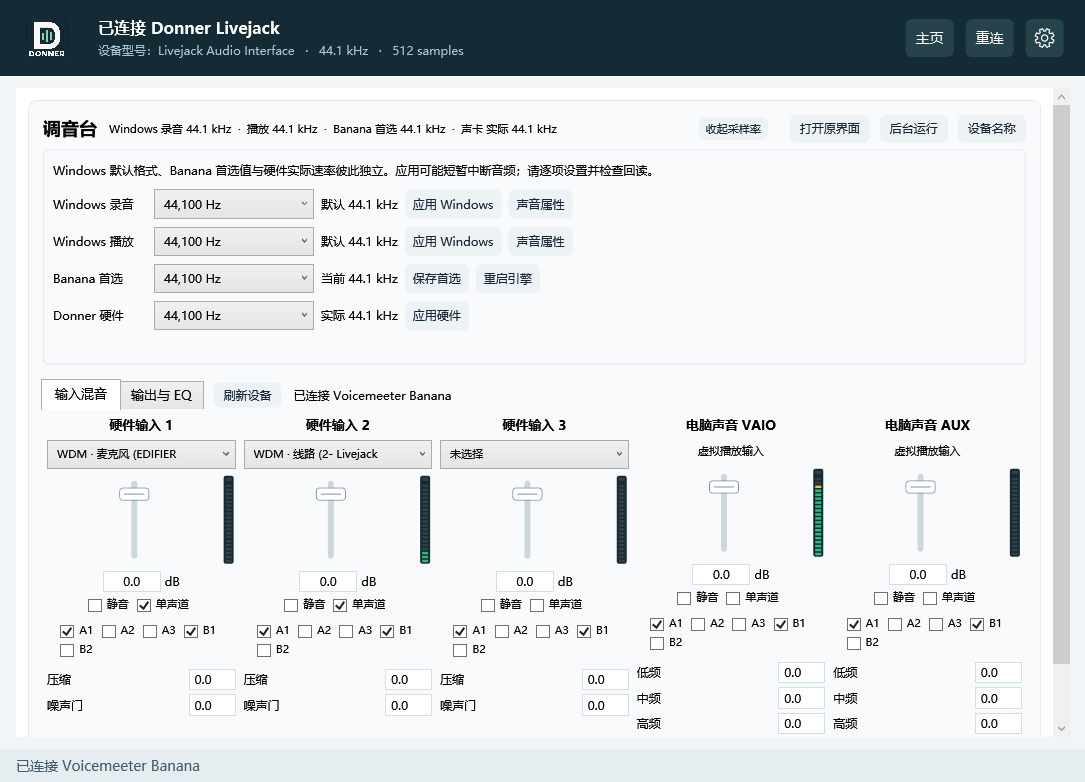
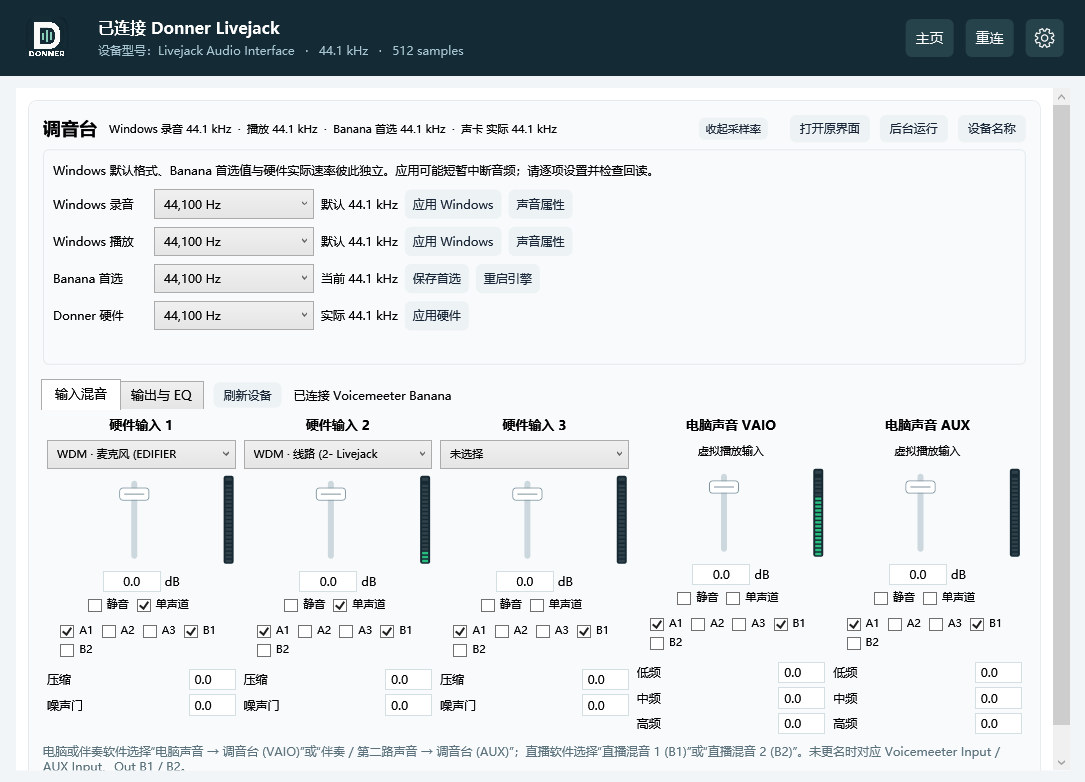
Remove bottom status bar in v1.31

Changed region(s): [[0.0, 0.9514, 0.9124, 1.0], [0.9733, 0.8286, 1.0, 0.9514], [0.9429, 0.9514, 0.9733, 0.9821]]

diff --git a/src/Donner.Panel/MainWindow.xaml b/src/Donner.Panel/MainWindow.xaml
@@ -1,4 +1,4 @@
-<Window x:Class="Donner.Panel.MainWindow" xmlns="http://schemas.microsoft.com/winfx/2006/xaml/presentation" xmlns:x="http://schemas.microsoft.com/winfx/2006/xaml" xmlns:local="clr-namespace:Donner.Panel" Title="Donner 中文控制面板" Icon="Assets/donner.ico" Width="900" Height="620" MinWidth="840" MinHeight="600" Background="#F2F5F7" FontFamily="Microsoft YaHei UI" FontSize="14" Foreground="{StaticResource Ink}" WindowStartupLocation="CenterScreen">
+<Window x:Class="Donner.Panel.MainWindow" xmlns="http://schemas.microsoft.com/winfx/2006/xaml/presentation" xmlns:x="http://schemas.microsoft.com/winfx/2006/xaml" xmlns:local="clr-namespace:Donner.Panel" Title="Donner 中文控制面板" Icon="Assets/donner.ico" Width="900" Height="620" MinWidth="840" MinHeight="600" Background="#F2F5F7" FontFamily="Microsoft YaHei UI" FontSize="14" Foreground="{StaticResource Ink}" WindowStartupLocation="CenterScreen">
  <Grid Background="#F2F5F7"><Grid.RowDefinitions><RowDefinition Height="76"/><RowDefinition Height="*"/><RowDefinition Height="Auto"/></Grid.RowDefinitions>
   <Border Background="#142A34"><Grid Margin="22,10">
    <Grid.ColumnDefinitions><ColumnDefinition Width="64"/><ColumnDefinition/><ColumnDefinition Width="Auto"/></Grid.ColumnDefinitions>
@@ -62,6 +62,6 @@
     <TabItem x:Name="MixerPage" Header="调音台" Visibility="Collapsed"><ScrollViewer VerticalScrollBarVisibility="Auto" HorizontalScrollBarVisibility="Disabled"><ContentControl x:Name="MixerSlot" Margin="12"/></ScrollViewer></TabItem>
    </TabControl>
   </Grid>
-  <Border Grid.Row="2" Background="#E5EDF0" Padding="16,8"><TextBlock x:Name="Feedback" Text="快捷键：F5 重新检测 · Ctrl+S 保存预设 · Ctrl+M 输出静音" Foreground="#425D6B"/></Border>
+  <Border Grid.Row="2" Visibility="Collapsed" Background="#E5EDF0" Padding="16,8"><TextBlock x:Name="Feedback" Text="快捷键：F5 重新检测 · Ctrl+S 保存预设 · Ctrl+M 输出静音" Foreground="#425D6B"/></Border>
  </Grid>
 </Window>

diff --git a/src/Donner.Panel/MainWindow.xaml.cs b/src/Donner.Panel/MainWindow.xaml.cs
@@ -53,7 +53,7 @@ public partial class MainWindow : Window
         StreamModeCombo.ItemsSource=new[]{new DriverOption(1,"按需开启"),new DriverOption(2,"持续开启")};
         OutputFormatCombo.SelectionChanged+=(_,_)=>{if(!rendering&&OutputFormatCombo.SelectedItem is DriverOption option)selectedFormat=option.Value;};
         StreamModeCombo.SelectionChanged+=(_,_)=>{if(!rendering&&StreamModeCombo.SelectedItem is DriverOption option)selectedStreamMode=option.Value;};
-        Title="Donner 中文控制面板 · v1.30 · topsai (范斯特洛夫斯基)";
+        Title="Donner 中文控制面板 · v1.31 · topsai (范斯特洛夫斯基)";
         AboutVersion.Text="版本 "+typeof(MainWindow).Assembly.GetName().Version?.ToString(3);
         var smoke=Array.IndexOf(args,"--smoke");
         smokeDirectory=smoke>=0 && smoke+1<args.Length?Path.GetFullPath(args[smoke+1]):null;
@@ -248,7 +248,7 @@ public partial class MainWindow : Window
             try
             {
                 Directory.CreateDirectory(reconnectCheckDirectory);
-                File.WriteAllText(Path.Combine(reconnectCheckDirectory,"state.json"),JsonSerializer.Serialize(new {Version="1.30",ProcessId=Environment.ProcessId,Updated=DateTimeOffset.Now,d.Connected,d.Demo,d.Status,d.SampleRate,d.BufferSize,DeviceChanges=deviceChanges,NotificationRegistered=notifications is not null},new JsonSerializerOptions {WriteIndented=true}));
+                File.WriteAllText(Path.Combine(reconnectCheckDirectory,"state.json"),JsonSerializer.Serialize(new {Version="1.31",ProcessId=Environment.ProcessId,Updated=DateTimeOffset.Now,d.Connected,d.Demo,d.Status,d.SampleRate,d.BufferSize,DeviceChanges=deviceChanges,NotificationRegistered=notifications is not null},new JsonSerializerOptions {WriteIndented=true}));
             }
             catch(IOException){}
         }
